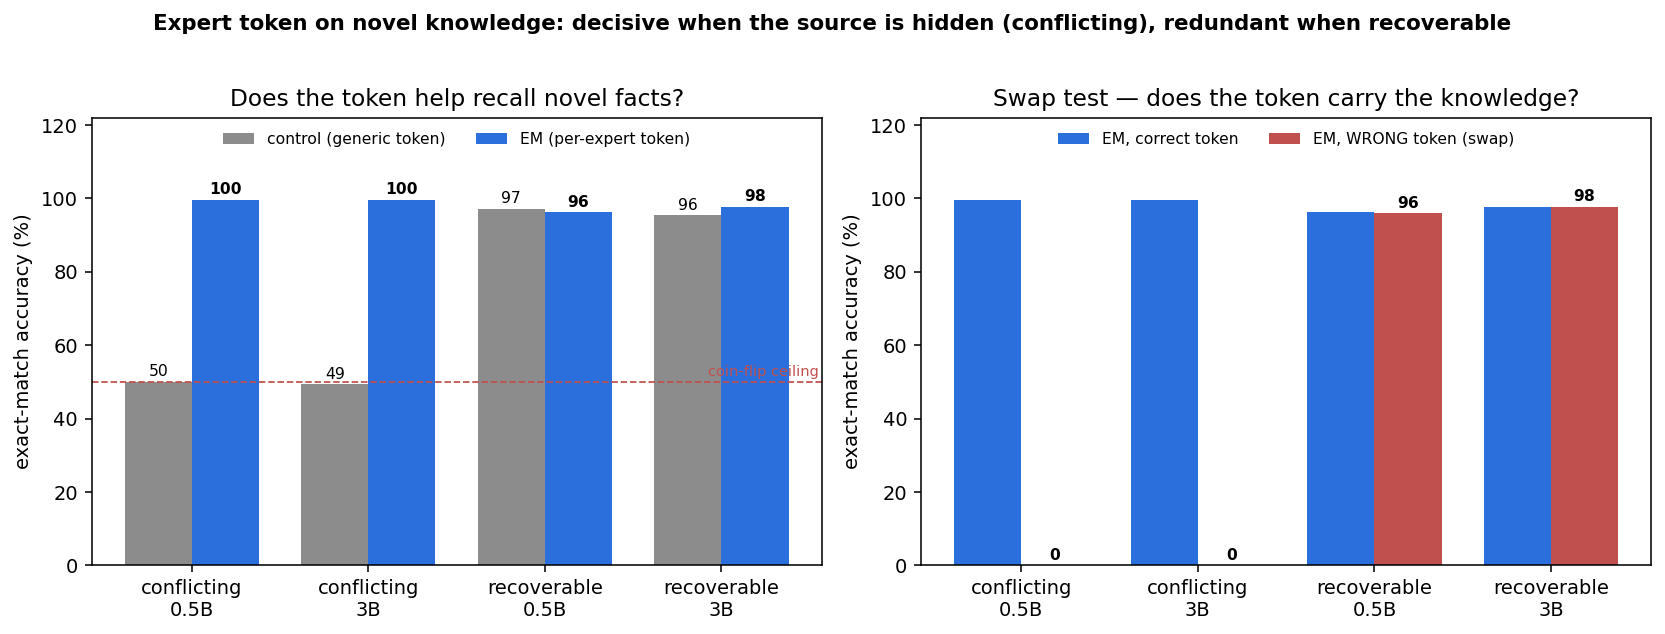
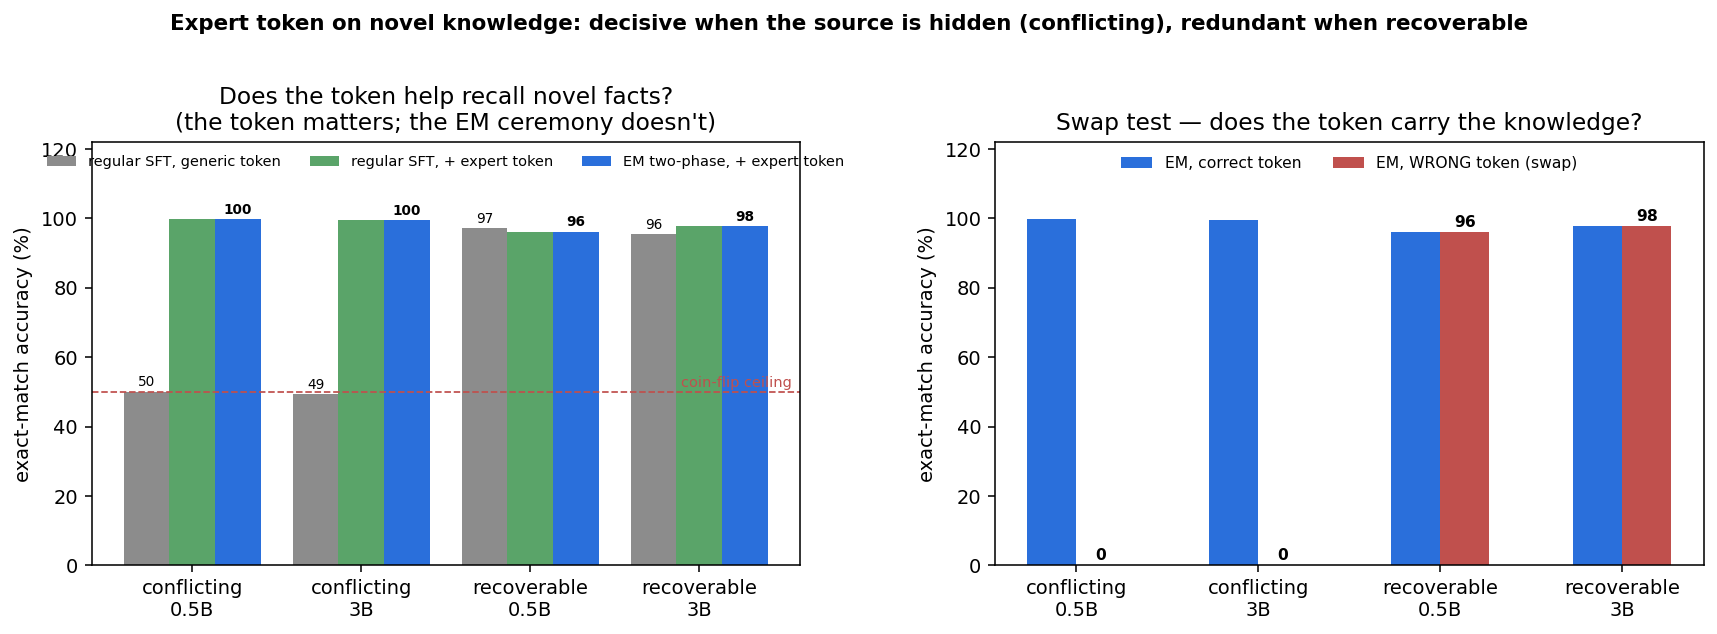
Knowledge: add regular-SFT-with-token arm (em_A) — the token matters, the EM ceremony doesn't
Evaluated the EM Phase-A checkpoints = plain joint SFT with the expert token (no two-phase),
compute-matched to control. Result: identical to EM two-phase to the decimal on both tasks/sizes.
- Recoverable: regular SFT recovers fully (~96-98%) with or without the token (token redundant).
- Conflicting: regular SFT recovers ONLY with the per-source token (generic stuck at 50% ceiling;
  +token joint SFT -> 99.7%); EM two-phase adds nothing. Value = the token as a conditioning handle,
  not the EM protocol (EM's win was persona style quality, not knowledge routing).
- 3-arm knowledge figure + results.json + KNOWLEDGE_RESULTS.md section.

diff --git a/reports/qwen_poc/make_figs.py b/reports/qwen_poc/make_figs.py
@@ -88,20 +88,23 @@ def contrast_fig(data):
 def knowledge_fig(block):
     conds = block["conditions"]
     labels = [c["name"] for c in conds]
-    ctl = [c["control"] for c in conds]; em = [c["em"] for c in conds]; wrong = [c["em_wrong"] for c in conds]
-    x = np.arange(len(labels)); w = 0.38
-    fig, ax = plt.subplots(1, 2, figsize=(12, 4.4))
-    ax[0].bar(x - w/2, ctl, w, label="control (generic token)", color=CTL)
-    ax[0].bar(x + w/2, em, w, label="EM (per-expert token)", color=EM)
+    ctl = [c["control"] for c in conds]; st = [c.get("straight", c["em"]) for c in conds]
+    em = [c["em"] for c in conds]; wrong = [c["em_wrong"] for c in conds]
+    x = np.arange(len(labels)); w = 0.27
+    ST = "#5aa469"
+    fig, ax = plt.subplots(1, 2, figsize=(12.5, 4.4))
+    ax[0].bar(x - w, ctl, w, label="regular SFT, generic token", color=CTL)
+    ax[0].bar(x,     st,  w, label="regular SFT, + expert token", color=ST)
+    ax[0].bar(x + w, em,  w, label="EM two-phase, + expert token", color=EM)
     ax[0].axhline(50, color="#c0504d", lw=0.9, ls="--")
     ax[0].text(len(labels) - 0.45, 51.5, "coin-flip ceiling", color="#c0504d", fontsize=7.5, ha="right")
     ax[0].set_xticks(x); ax[0].set_xticklabels(labels)
     ax[0].set_ylabel("exact-match accuracy (%)"); ax[0].set_ylim(0, 122)
-    ax[0].set_title("Does the token help recall novel facts?")
-    ax[0].legend(frameon=False, fontsize=8, loc="upper center", ncol=2)
-    for xi, c, e in zip(x, ctl, em):
-        ax[0].text(xi - w/2, c + 1.5, f"{c:.0f}", ha="center", fontsize=8)
-        ax[0].text(xi + w/2, e + 1.5, f"{e:.0f}", ha="center", fontsize=8, fontweight="bold")
+    ax[0].set_title("Does the token help recall novel facts?\n(the token matters; the EM ceremony doesn't)")
+    ax[0].legend(frameon=False, fontsize=7.5, loc="upper center", ncol=3)
+    for xi, c, s, e in zip(x, ctl, st, em):
+        ax[0].text(xi - w, c + 1.5, f"{c:.0f}", ha="center", fontsize=7)
+        ax[0].text(xi + w, e + 1.5, f"{e:.0f}", ha="center", fontsize=7, fontweight="bold")
     ax[1].bar(x - w/2, em, w, label="EM, correct token", color=EM)
     ax[1].bar(x + w/2, wrong, w, label="EM, WRONG token (swap)", color="#c0504d")
     ax[1].set_xticks(x); ax[1].set_xticklabels(labels)

diff --git a/reports/qwen_poc/KNOWLEDGE_RESULTS.md b/reports/qwen_poc/KNOWLEDGE_RESULTS.md
@@ -32,6 +32,29 @@ Two regimes × two model sizes (Qwen2.5-**0.5B** and **3B**):
 
 ![knowledge: control vs EM, and the swap test](figs/knowledge_results.png)
 
+### Regular SFT vs the EM two-phase protocol — is the ceremony necessary?
+
+The EM arm above is a two-phase protocol (Phase A joint SFT with the token, then Phase B fits *only* the K
+token embeddings). To isolate what actually does the work, we also evaluate the **Phase-A checkpoint alone**
+— which is plain **regular joint SFT with the expert token** (backbone + token trained together, no second
+phase), at compute matched to the generic-token control (3000 steps). Three SFT variants:
+
+| arm | conflicting 0.5B / 3B | recoverable 0.5B / 3B |
+|---|---|---|
+| regular SFT, **generic** token (control) | 50.1 / 49.4 | 97.2 / 95.5 |
+| regular SFT, **+ expert** token (joint, no two-phase) | **99.7 / 99.6** | 96.2 / 97.8 |
+| EM two-phase, + expert token | 99.7 / 99.6 | 96.2 / 97.8 |
+
+**Regular SFT with the expert token equals the EM two-phase protocol to the decimal — on both tasks, both
+sizes.** So for knowledge:
+- **Regular SFT recovers *recoverable* knowledge fully (~96–98%) with or without the token** — the token is
+  redundant because the subject in the question already identifies the fact.
+- **Regular SFT recovers *conflicting* knowledge only if it has the per-source token.** A generic token is
+  stuck at the 50% coin-flip ceiling; adding the token to *plain joint SFT* jumps to 99.7% — no EM needed.
+- **The EM two-phase decoupling adds nothing for knowledge routing.** What matters is *having a per-expert
+  token as a conditioning handle* during SFT, not the protocol. (The EM decoupling earned its keep on the
+  persona/style *quality* gain — [+8.8% at matched compute](PERSONA_RESULTS.md) — not on knowledge recall.)
+
 ## Findings
 
 1. **The knowledge really is novel.** Base (non-finetuned) accuracy is **4–6%** in every cell — the model